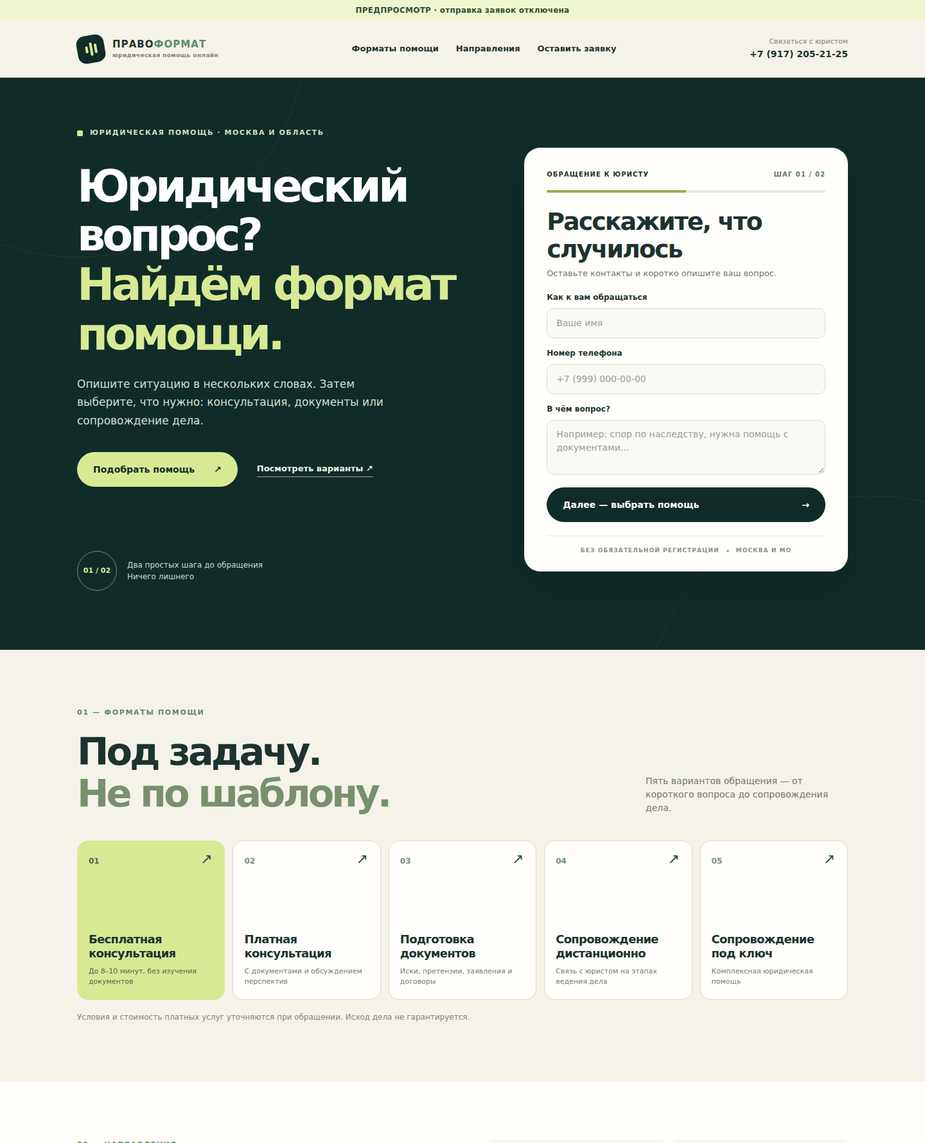
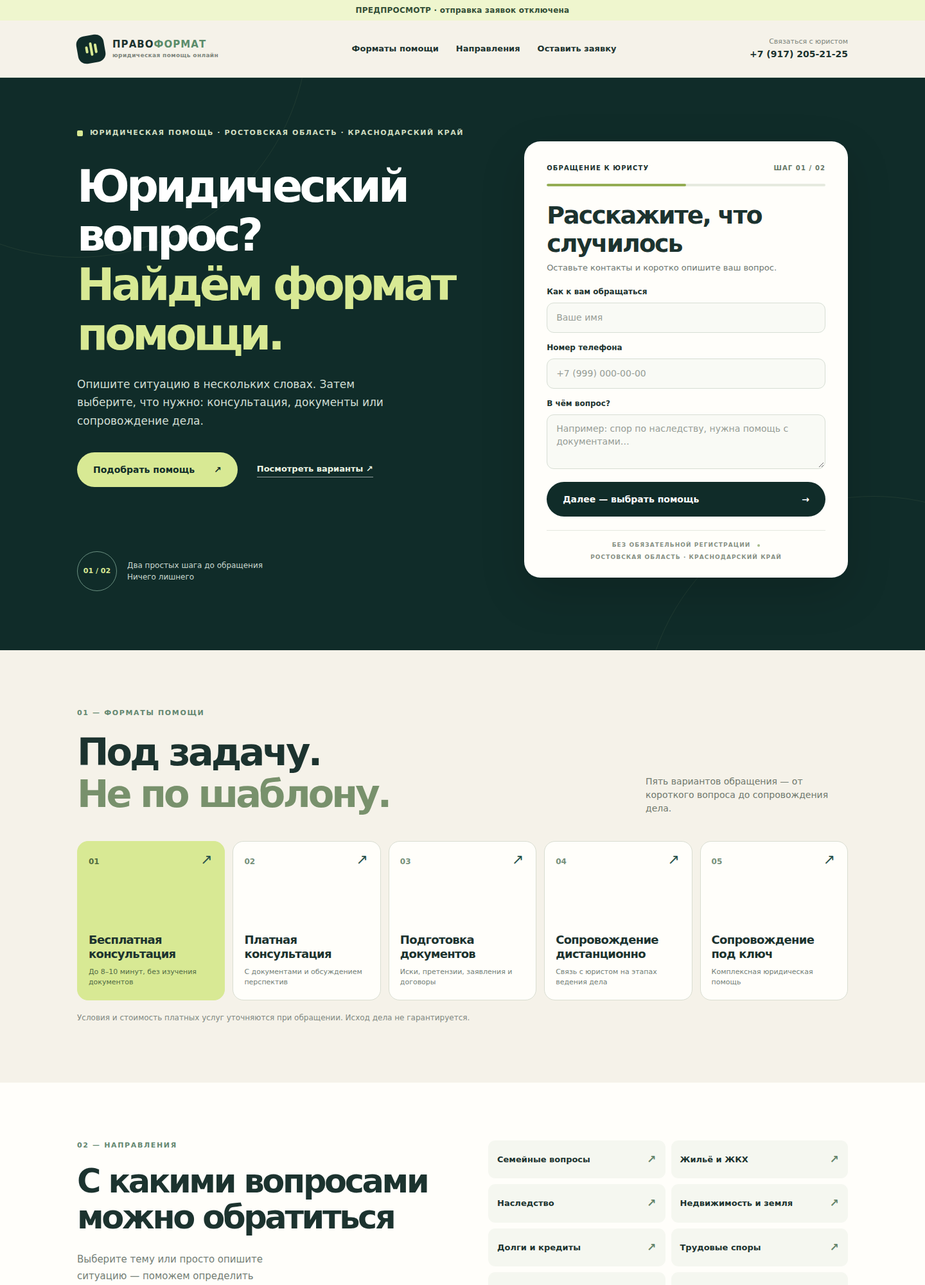
feat(oleg): add six law specialties and south regions to second landing

diff --git a/sites/oleg-services-landing/assets/site.css b/sites/oleg-services-landing/assets/site.css
@@ -1,1 +1,4 @@
 :root{--dark:#102c29;--deep:#0a211e;--mid:#28524b;--mint:#d8e994;--cream:#f5f2e9;--paper:#fffefa;--ink:#1c332f;--mute:#6d7770;--border:#d9ddd1;--salmon:#f2ad8a}*,*:before,*:after{box-sizing:border-box}html{scroll-behavior:smooth}body{margin:0;background:var(--cream);color:var(--ink);font:16px/1.5 system-ui,-apple-system,"Segoe UI",Arial,sans-serif}a{color:inherit}button,input,textarea,select{font:inherit}button{cursor:pointer}a,button,input,select,textarea{-webkit-tap-highlight-color:transparent}a:focus-visible,button:focus-visible,input:focus-visible,textarea:focus-visible{outline:3px solid #dfb873;outline-offset:3px}.shell{width:min(1200px,calc(100% - 56px));margin-inline:auto}.skip{position:absolute;z-index:50;top:-100px;left:12px;padding:12px;background:#fff;color:var(--ink)}.skip:focus{top:12px}[hidden]{display:none!important}.header{position:relative;z-index:4;background:var(--cream);border-bottom:1px solid #d6ddd0}.header-row{min-height:88px;display:flex;gap:27px;align-items:center;justify-content:space-between}.brand{display:flex;align-items:center;gap:12px;text-decoration:none;flex-shrink:0}.brand-symbol{width:43px;height:43px;background:var(--dark);border-radius:13px;display:flex;align-items:center;justify-content:center;gap:3px;transform:rotate(-10deg)}.brand-symbol span{display:block;width:4px;background:var(--mint);border-radius:3px}.brand-symbol span:nth-child(1){height:11px}.brand-symbol span:nth-child(2){height:21px}.brand-symbol span:nth-child(3){height:15px}.brand-text{display:block;font-size:15px;line-height:1;letter-spacing:.07em;font-weight:850}.brand-text>span{color:#5b8c6b}.brand-text small{display:block;color:#7e867d;font-size:9px;font-weight:600;letter-spacing:.04em;margin-top:5px}.header nav{display:flex;align-items:center;gap:27px}.header nav a{font-size:13px;text-decoration:none;font-weight:700;white-space:nowrap;transition:color .15s}.header nav a:hover{color:#56785c}.contact-phone{display:flex;flex-direction:column;align-items:flex-end;text-decoration:none;white-space:nowrap}.contact-phone small{font-size:11px;color:#7d857c}.contact-phone strong{font-size:14px;font-weight:780}.hero{position:relative;overflow:hidden;background:var(--dark);color:white}.hero-orbit{border:1px solid rgba(216,233,148,.08);border-radius:50%;width:720px;height:720px;position:absolute;pointer-events:none}.orbit-one{top:-440px;left:-240px}.orbit-two{right:-280px;bottom:-480px}.hero-layout{position:relative;z-index:1;display:grid;grid-template-columns:minmax(0,1.12fr) minmax(390px,.91fr);gap:76px;align-items:center;padding-block:78px 92px}.hero-copy{position:relative;align-self:stretch;display:flex;flex-direction:column;justify-content:center;min-width:0}.eyebrow{display:flex;align-items:center;gap:11px;color:#d1dec1;font-size:11px;letter-spacing:.14em;font-weight:750;margin:0 0 36px}.eyebrow-square{width:9px;height:9px;background:var(--mint);border-radius:2px}.hero h1{font-size:clamp(44px,4.85vw,71px);font-weight:750;line-height:1.1;letter-spacing:-.072em;margin:0 0 25px}.hero h1 em{color:var(--mint);font-style:normal}.hero-lead{font-size:17px;line-height:1.68;max-width:520px;color:#d1ded4;margin:0}.hero-actions{display:flex;align-items:center;flex-wrap:wrap;gap:30px;margin-top:35px}.action{display:inline-flex;align-items:center;justify-content:space-between;gap:30px;min-height:54px;padding:0 25px;border:0;text-decoration:none;font-weight:800;font-size:14px;border-radius:99px;transition:transform .15s,background .15s}.action:hover{transform:translateY(-2px)}.action-lime{background:var(--mint);color:var(--dark)}.action-lime:hover{background:#e4f0b8}.action-ink{background:var(--dark);color:white}.action-ink:hover{background:#224842}.hero-text-link{color:#ecf4e3;text-decoration:none;font-size:13px;font-weight:700;border-bottom:1px solid rgba(255,255,255,.55);padding-bottom:3px}.hero-footnote{display:flex;align-items:center;gap:16px;margin-top:100px;color:#c8d6cd;font-size:12px;line-height:1.5}.note-index{width:62px;height:62px;border:1px solid #6a9081;border-radius:50%;display:flex;align-items:center;justify-content:center;color:var(--mint);font-weight:800;font-size:11px;flex-shrink:0}.wizard-card{scroll-margin-top:22px;background:var(--paper);color:var(--ink);padding:34px 35px 25px;border-radius:25px;box-shadow:0 24px 70px rgba(0,0,0,.16);min-width:0}.wizard-topline{display:flex;justify-content:space-between;align-items:center;gap:10px}.tiny-tag,.wizard-counter{font-size:10px;font-weight:850;letter-spacing:.11em;white-space:nowrap}.wizard-counter{color:#667766}.progress{height:4px;border-radius:8px;background:#e6eadf;margin-top:17px;margin-bottom:24px;overflow:hidden}.progress-fill{display:block;background:#94ad54;width:50%;height:100%;border-radius:8px;transition:width .2s}.wizard-card h2{margin:0 0 6px;font-size:clamp(27px,2.7vw,38px);line-height:1.14;letter-spacing:-.052em;font-weight:780}.step-desc{color:var(--mute);font-size:13px;line-height:1.55;margin:0 0 18px}.form-step>label:not(.consent){display:block;font-size:12px;font-weight:750;margin:14px 0 8px}.form-step input:not([type=checkbox]):not([type=radio]),.form-step textarea,.form-step select{background:#f9faf5;border:1px solid #d7ded4;border-radius:11px;display:block;width:100%;padding:11px 14px;color:var(--ink);font-size:14px;min-height:47px}.form-step textarea{resize:vertical;min-height:81px;line-height:1.45}.form-step input::placeholder,.form-step textarea::placeholder{color:#969d96}.form-next{width:100%;margin-top:20px}.form-status{font-size:12px;color:#57685a;margin:10px 0 0;min-height:0}.form-status.error{color:#b23a39}.form-status.success{color:#2b7252}.hidden-field{position:absolute!important;left:-10000px!important;width:1px!important;height:1px!important;overflow:hidden!important}.wizard-bottom{display:flex;align-items:center;justify-content:center;gap:11px;margin-top:21px;padding-top:16px;border-top:1px solid #e4e7df;font-size:9px;letter-spacing:.12em;font-weight:700;color:#879185}.wizard-bottom .dot{width:4px;height:4px;background:#a7bb8b;border-radius:50%}.service-options{border:0;margin:0;padding:0;display:grid;gap:7px}.service-option{position:relative;display:flex;align-items:center;gap:12px;border:1px solid #d8ded4;background:#fbfcf8;border-radius:12px;padding:10px 11px;cursor:pointer;transition:background .15s,border-color .15s}.service-option:hover{background:#f2f6eb;border-color:#99af84}.service-option:has(input:checked){background:#edf6df;border-color:#86a760;box-shadow:0 0 0 1px #86a760}.service-option:has(input:focus-visible){outline:3px solid #dfb873;outline-offset:2px}.service-option input{position:absolute;opacity:0;width:1px;height:1px}.option-icon{display:flex;align-items:center;justify-content:center;width:35px;height:35px;background:#eff2e9;border-radius:10px;font-size:11px;color:#64805e;font-weight:850;flex:0 0 auto}.service-option strong{display:block;font-size:12px;line-height:1.32;font-weight:800}.service-option small{display:block;font-size:10px;color:#6a786d;line-height:1.35;margin-top:3px}.option-check{margin-left:auto;font-size:14px;font-weight:850;color:#4f8d53;opacity:0}.service-option:has(input:checked) .option-check{opacity:1}.muted-label{font-size:11px;font-weight:400;color:#7b877d}.consent{display:flex!important;gap:9px;align-items:flex-start;font-size:11px;line-height:1.43;font-weight:400!important;color:#657366;margin:18px 0 15px!important}.consent input{accent-color:#597f57;flex:0 0 auto;margin-top:2px}.consent a{text-underline-offset:2px}.wizard-actions{display:flex;gap:12px;justify-content:space-between;align-items:center}.wizard-actions .action{flex:1;min-width:0;gap:10px;justify-content:space-between;padding-inline:18px}.back-button{border:0;background:transparent;color:#576960;font-size:13px;font-weight:750;white-space:nowrap;padding:11px 3px}.visually-hidden{position:absolute;overflow:hidden;clip:rect(0,0,0,0);height:1px;width:1px;white-space:nowrap}.formats{background:var(--cream);padding-block:90px 92px}.section-header{display:flex;justify-content:space-between;gap:35px;align-items:end;margin-bottom:40px}.section-index{font-size:11px;letter-spacing:.15em;color:#638770;font-weight:800;margin:0 0 20px}.section-header h2,.direction-layout h2,.closing h2{font-size:clamp(35px,4.1vw,59px);line-height:1.1;letter-spacing:-.066em;margin:0;font-weight:780}.section-header h2 span{color:#78916c}.section-header>p{font-size:14px;color:#70796e;max-width:315px;margin:0}.format-grid{display:grid;grid-template-columns:repeat(5,minmax(0,1fr));gap:12px}.format-tile{min-height:248px;border:1px solid var(--border);border-radius:17px;background:#fffefa;display:flex;flex-direction:column;padding:22px 17px 18px;text-decoration:none;position:relative;transition:transform .16s,background .16s}.format-tile:hover{transform:translateY(-4px);background:#f9fbe9}.format-tile:first-child{background:var(--mint);border-color:var(--mint)}.format-number{font-size:12px;font-weight:800;color:#76917a}.format-tile:first-child .format-number{color:#526c40}.format-arrow{position:absolute;right:19px;top:17px;font-size:22px;line-height:1;color:var(--mid)}.format-name{font-size:18px;font-weight:790;letter-spacing:-.04em;line-height:1.2;margin-top:auto}.format-description{font-size:11px;color:#738078;line-height:1.48;margin-top:10px}.format-tile:first-child .format-description{color:#526b45}.services-note{font-size:12px;color:#818982;margin:18px 0 0}.directions{background:var(--paper);padding:90px 0}.direction-layout{display:grid;grid-template-columns:1fr 1fr;gap:80px;align-items:start}.direction-layout h2{font-size:clamp(33px,3.7vw,51px)}.direction-layout>div:first-child>p:last-child{max-width:360px;color:#747e76;font-size:15px;line-height:1.7;margin:25px 0}.direction-list{display:grid;grid-template-columns:repeat(2,minmax(0,1fr));gap:9px}.direction-list a{background:#f5f7f0;text-decoration:none;border-radius:11px;padding:16px 13px;display:flex;align-items:center;justify-content:space-between;gap:8px;font-size:13px;font-weight:750;border:1px solid transparent}.direction-list a:hover{border-color:#b2c5a5;background:#edf3e8}.direction-list a span{color:#64846a;font-size:17px}.closing{padding:55px 0;background:var(--mid);color:#fff}.closing-row{display:flex;align-items:center;justify-content:space-between;gap:24px}.closing .section-index{color:var(--mint);margin-bottom:8px}.closing h2{font-size:clamp(34px,3.9vw,51px)}.footer{background:var(--deep);color:#cedbd0}.footer-row{padding-block:29px;display:flex;align-items:center;gap:25px;justify-content:space-between;font-size:12px}.footer-row a{text-underline-offset:3px}.footer-row button{background:transparent;border:0;padding:5px 0;color:#cedbd0;font:inherit;text-decoration:underline;text-underline-offset:3px}.legal-details{display:flex;gap:12px 19px;padding-bottom:19px;flex-wrap:wrap;font-size:11px;color:#b8c9ba}.legal-details strong{color:white}.cookie-banner{position:fixed;z-index:30;bottom:15px;left:15px;right:15px;max-width:650px;margin:auto;background:#fff;border:1px solid #b9cdb7;border-radius:15px;box-shadow:0 10px 35px #172b2533;display:flex;gap:12px;align-items:center;padding:17px}.cookie-banner p{font-size:12px;margin:0;flex:1}.cookie-banner>div{display:flex;gap:7px}.cookie-banner button{border:1px solid #b4c2ad;background:#fff;border-radius:30px;padding:9px 12px;font-size:12px}.cookie-banner button:last-child{background:var(--dark);color:#fff}.preview-ribbon{position:relative;z-index:10;background:#eff6ce;color:#334e36;font-size:12px;font-weight:780;text-align:center;padding:7px 20px;letter-spacing:.02em}@media(max-width:1100px){.hero-layout{grid-template-columns:minmax(0,1fr) minmax(360px,.95fr);gap:38px}.hero h1{font-size:clamp(39px,4.8vw,58px)}.format-grid{grid-template-columns:repeat(3,minmax(0,1fr))}.format-tile{min-height:200px}.direction-layout{gap:40px}}@media(max-width:760px){.shell{width:calc(100% - 32px)}.header-row{min-height:74px;gap:13px}.brand-symbol{width:38px;height:38px}.brand-text{font-size:13px}.brand-text small{font-size:8px}.header nav{display:none}.contact-phone small{display:none}.contact-phone strong{font-size:12px}.hero-layout{grid-template-columns:1fr;gap:43px;padding-block:54px 72px}.hero h1{font-size:clamp(43px,8.5vw,65px)}.hero-lead{font-size:16px}.hero-footnote{margin-top:33px}.hero-actions{margin-top:29px;gap:20px}.wizard-card{padding:26px 21px 20px}.wizard-card h2{font-size:clamp(29px,6vw,37px)}.formats{padding-block:65px}.section-header{display:block}.section-header>p{margin-top:15px}.format-grid{grid-template-columns:repeat(2,minmax(0,1fr))}.format-tile{min-height:192px}.directions{padding-block:67px}.direction-layout{grid-template-columns:1fr;gap:30px}.closing-row{display:flex;flex-direction:column;align-items:flex-start;gap:25px}.footer-row{flex-wrap:wrap;gap:15px}}@media(max-width:450px){.hero h1{font-size:clamp(40px,10vw,48px)}.hero-actions{flex-direction:column;align-items:stretch}.hero-text-link{align-self:flex-start}.format-grid{gap:9px}.format-tile{padding:16px 13px;min-height:178px}.format-name{font-size:17px}.format-description{font-size:10px}.direction-list{gap:7px}.direction-list a{font-size:11px;padding:13px 10px}.wizard-actions .action{padding:12px 14px;font-size:12px;min-height:51px}.service-option{padding:9px}.service-option strong{font-size:11px}.service-option small{font-size:10px}.closing-row>.action{width:100%}.footer-row{flex-direction:column;align-items:flex-start}}@media(prefers-reduced-motion:reduce){html{scroll-behavior:auto}*,*:before,*:after{transition:none!important;animation:none!important}}
+
+/* Two explicit service regions can wrap without overlapping on mobile. */
+.wizard-bottom{flex-wrap:wrap;row-gap:5px}.eyebrow{line-height:1.5}.direction-list a{overflow-wrap:anywhere}

diff --git a/sites/oleg-services-landing/index.html b/sites/oleg-services-landing/index.html
@@ -5,11 +5,11 @@
 <meta name="viewport" content="width=device-width,initial-scale=1">
 <meta name="robots" content="noindex,nofollow">
 <meta name="theme-color" content="#102c29">
-<meta name="description" content="Юридическая помощь онлайн в Москве и Московской области. Выберите формат: бесплатная или платная консультация, подготовка документов, дистанционное сопровождение или дело под ключ.">
+<meta name="description" content="Юридическая помощь онлайн: Ростовская область и Краснодарский край. Выберите формат: бесплатная или платная консультация, подготовка документов, дистанционное сопровождение или дело под ключ.">
 <meta property="og:type" content="website">
 <meta property="og:title" content="Юридическая помощь — выберите подходящий формат">
 <meta property="og:description" content="Опишите ситуацию, затем выберите, какая юридическая помощь вам нужна.">
-<title>Юридическая помощь онлайн — выберите формат консультации | ПравоФормат</title>
+<title>Юридическая помощь онлайн — Ростовская область и Краснодарский край | ПравоФормат</title>
 <link rel="stylesheet" href="assets/site.css">
 <script src="assets/site.js" defer></script>
 </head>
@@ -30,7 +30,7 @@
  <div class="hero-orbit orbit-one" aria-hidden="true"></div><div class="hero-orbit orbit-two" aria-hidden="true"></div>
  <div class="shell hero-layout">
   <div class="hero-copy">
-    <p class="eyebrow"><span class="eyebrow-square"></span> ЮРИДИЧЕСКАЯ ПОМОЩЬ · МОСКВА И ОБЛАСТЬ</p>
+    <p class="eyebrow"><span class="eyebrow-square"></span> ЮРИДИЧЕСКАЯ ПОМОЩЬ · РОСТОВСКАЯ ОБЛАСТЬ · КРАСНОДАРСКИЙ КРАЙ</p>
     <h1>Юридический вопрос?<br><em>Найдём формат помощи.</em></h1>
     <p class="hero-lead">Опишите ситуацию в нескольких словах. Затем выберите, что нужно: консультация, документы или сопровождение дела.</p>
     <div class="hero-actions"><a href="#consultation" class="action action-lime">Подобрать помощь <span aria-hidden="true">↗</span></a><a href="#formats" class="hero-text-link">Посмотреть варианты <span aria-hidden="true">↗</span></a></div>
@@ -66,6 +66,12 @@
      <select id="topic" name="topic">
       <option value="Другая юридическая проблема">Помогите определить</option>
       <option>Семейное право</option><option>Жилищные вопросы</option><option>Наследство</option><option>Недвижимость и земля</option><option>Долги и кредиты</option><option>Трудовой спор</option><option>Защита прав потребителей</option><option>Судебный спор</option>
+      <option>Арбитражные споры по договору подряда</option>
+      <option>Уголовные дела (адвокат)</option>
+      <option>Военное право</option>
+      <option>Медицинское право</option>
+      <option>Пенсионное право (перерасчёт пенсии)</option>
+      <option>Интеллектуальное право</option>
      </select>
      <label class="consent"><input id="lead-consent" type="checkbox" required><span>Согласен(на) на <a href="privacy.html" target="_blank" rel="noopener">обработку персональных данных</a> для ответа на обращение.</span></label>
      <div class="wizard-actions"><button id="step-back" type="button" class="back-button"><span aria-hidden="true">←</span> Назад</button><button id="lead-submit" type="submit" class="action action-ink">Отправить заявку <span aria-hidden="true">↗</span></button></div>
@@ -73,7 +79,7 @@
     <div class="hidden-field" aria-hidden="true"><label for="company-site">Не заполнять</label><input id="company-site" type="text" name="website" tabindex="-1" autocomplete="off"></div>
     <p class="form-status" id="lead-status" role="status" aria-live="polite"></p>
    </form>
-   <div class="wizard-bottom"><span>БЕЗ ОБЯЗАТЕЛЬНОЙ РЕГИСТРАЦИИ</span><span class="dot"></span><span>МОСКВА И МО</span></div>
+   <div class="wizard-bottom"><span>БЕЗ ОБЯЗАТЕЛЬНОЙ РЕГИСТРАЦИИ</span><span class="dot"></span><span>РОСТОВСКАЯ ОБЛАСТЬ · КРАСНОДАРСКИЙ КРАЙ</span></div>
   </div>
  </div>
 </section>
@@ -102,12 +108,18 @@
    <a href="#consultation" data-topic="Трудовой спор">Трудовые споры <span>↗</span></a>
    <a href="#consultation" data-topic="Защита прав потребителей">Права потребителей <span>↗</span></a>
    <a href="#consultation" data-topic="Судебный спор">Судебные споры <span>↗</span></a>
+   <a href="#consultation" data-topic="Арбитражные споры по договору подряда">Арбитражные споры по договору подряда <span>↗</span></a>
+   <a href="#consultation" data-topic="Уголовные дела (адвокат)">Уголовные дела (адвокат) <span>↗</span></a>
+   <a href="#consultation" data-topic="Военное право">Военное право <span>↗</span></a>
+   <a href="#consultation" data-topic="Медицинское право">Медицинское право <span>↗</span></a>
+   <a href="#consultation" data-topic="Пенсионное право (перерасчёт пенсии)">Пенсионное право (перерасчёт пенсии) <span>↗</span></a>
+   <a href="#consultation" data-topic="Интеллектуальное право">Интеллектуальное право <span>↗</span></a>
   </div>
  </div>
 </section>
 <section class="closing"><div class="shell closing-row"><div><p class="section-index">НАЧАТЬ ПРОСТО</p><h2>Расскажите, что произошло.</h2></div><a class="action action-lime" href="#consultation">Начать обращение <span aria-hidden="true">↗</span></a></div></section>
 </main>
-<footer class="footer"><div class="shell footer-row"><span>© <span id="year">2026</span> ПравоФормат · Москва и область</span><a href="privacy.html">Обработка персональных данных</a><button id="cookie-settings" type="button">Настройки аналитики</button></div></footer>
+<footer class="footer"><div class="shell footer-row"><span>© <span id="year">2026</span> ПравоФормат · Ростовская область и Краснодарский край</span><a href="privacy.html">Обработка персональных данных</a><button id="cookie-settings" type="button">Настройки аналитики</button></div></footer>
 <div id="cookie-banner" class="cookie-banner" role="dialog" aria-label="Настройки аналитики" hidden><p>Разрешить статистику посещений? Отказ не влияет на заявку.</p><div><button id="cookie-deny" type="button">Отказать</button><button id="cookie-allow" type="button">Разрешить</button></div></div>
 </body>
 </html>

diff --git a/sites/oleg-services-landing/tests/test_static.py b/sites/oleg-services-landing/tests/test_static.py
@@ -21,7 +21,7 @@ assert 'data-metrika-id=' not in html and not (ROOT/'sitemap.xml').exists()
 assert 'id="step-one"' in html and 'id="step-two"' in html
 assert 'id="step-two" class="form-step" aria-labelledby="step-two-title" hidden' in html
 assert html.count('type="radio" name="service"')==5
-assert html.count('data-service=')==5 and html.count('data-topic=')==8
+assert html.count('data-service=')==5 and html.count('data-topic=')==14
 assert 'id="lead-consent"' in html and 'id="lead-submit"' in html
 assert 'Бесплатная консультация' in html and 'Дело под ключ' in html
 assert 'До 8–10 минут, без анализа документов' in html
@@ -43,4 +43,12 @@ css=(ROOT/'assets/site.css').read_text()
 assert '@media(max-width:760px)' in css and 'prefers-reduced-motion:reduce' in css
 assert '.service-option:has(input:checked)' in css
 subprocess.run(['node','--check',str(ROOT/'assets/site.js')],check=True)
-print('PASS: site2 static, two-step, 5 services, 8 directions, SEO noindex, attribution and separate CRM')
+print('PASS: site2 static, two-step, 5 services, 14 directions, SEO noindex, attribution and separate CRM')
+
+# New legal specialties requested by the client, with back-end allowlist.
+new_topics=('Арбитражные споры по договору подряда','Уголовные дела (адвокат)','Военное право','Медицинское право','Пенсионное право (перерасчёт пенсии)','Интеллектуальное право')
+for topic in new_topics:
+ assert f'data-topic="{topic}"' in html and f'<option>{topic}</option>' in html
+ assert topic in lead
+assert 'Ростовская область и Краснодарский край' in html
+assert 'МОСКВА И ОБЛАСТЬ' not in html

diff --git a/sites/oleg-services-landing/api/lead.php b/sites/oleg-services-landing/api/lead.php
@@ -23,7 +23,7 @@ session_write_close();
 if (!empty($body['website'])) api_json(400, ['status'=>'invalid_submission']);
 $requestId = is_string($body['request_id'] ?? null) ? $body['request_id'] : '';
 if (!preg_match('/^[a-f0-9-]{36}$/i', $requestId)) api_json(422,['status'=>'invalid_request']);
-$topics = ['Семейное право','Жилищные вопросы','Наследство','Недвижимость и земля','Долги и кредиты','Трудовой спор','Защита прав потребителей','Судебный спор','Другая юридическая проблема'];
+$topics = ['Семейное право','Жилищные вопросы','Наследство','Недвижимость и земля','Долги и кредиты','Трудовой спор','Защита прав потребителей','Судебный спор','Арбитражные споры по договору подряда','Уголовные дела (адвокат)','Военное право','Медицинское право','Пенсионное право (перерасчёт пенсии)','Интеллектуальное право','Другая юридическая проблема'];
 $topic = api_field($body['topic'] ?? '', 100);
 $service = api_field($body['service'] ?? '', 20);
 $services = ['free','paid','documents','remote','turnkey'];

diff --git a/sites/oleg-services-landing/tests/test_build_release.py b/sites/oleg-services-landing/tests/test_build_release.py
@@ -11,7 +11,7 @@ with TemporaryDirectory() as tmp:
     advertiser = base / "advertiser.json"
     advertiser.write_text(json.dumps({
         "review_status": "approved", "legal_name": "ООО Юридический Пример",
-        "physical_address": "Москва, Примерная улица, дом 17",
+        "physical_address": "Ростов-на-Дону, Примерная улица, дом 17",
         "inn": "1234567890", "ogrn_or_ogrnip": "1234567890123"
     }, ensure_ascii=False))
     try:
@@ -39,6 +39,8 @@ with TemporaryDirectory() as tmp:
     assert 'data-metrika-id="123456789"' in html
     assert "ООО Юридический Пример" in html and "ИНН: 1234567890" in html
     assert '"@type": "LegalService"' in html
+    assert '"name": "Ростовская область"' in html
+    assert '"name": "Краснодарский край"' in html
     assert "https://example.org/sitemap.xml" in (release/"robots.txt").read_text()
     assert (release/"api/lead.php").is_file()
     try:

diff --git a/sites/oleg-services-landing/seo/build_release.py b/sites/oleg-services-landing/seo/build_release.py
@@ -56,8 +56,8 @@ def build(domain: str, counter: int, privacy: Path, advertiser: Path, dest: Path
         "@context": "https://schema.org", "@type": "LegalService",
         "name": data['legal_name'].strip(), "url": url,
         "telephone": "+79172052125", "address": data['physical_address'].strip(),
-        "areaServed": [{"@type": "AdministrativeArea", "name": "Москва"},
-                       {"@type": "AdministrativeArea", "name": "Московская область"}]
+        "areaServed": [{"@type": "AdministrativeArea", "name": "Ростовская область"},
+                       {"@type": "AdministrativeArea", "name": "Краснодарский край"}]
     }
     html = html.replace('</head>',
         '<script type="application/ld+json">' + json.dumps(schema, ensure_ascii=False).replace('<', '\\u003c')

diff --git a/sites/oleg-services-landing/README.md b/sites/oleg-services-landing/README.md
@@ -26,3 +26,9 @@
 Оба отправляют отдельный источник в общую CRM, но счётчики и UTM различаются. Разделение трафика по двум сайтам само по себе **не гарантирует** экономию: гипотеза проверяется в Яндекс Директе после отдельного разрешённого запуска. Рекламный бюджет не назначен.
 
 **Важное условие оффера:** длительность и доступность бесплатной консультации, а также фактические условия платных услуг должны быть подтверждены юридическим исполнителем до публикации.
+
+## 20.11.2026 — география
+По уточнению владельца в тестовом лендинге, SEO-метаданных, будущей структурированной разметке и черновых кампаниях вместо Москвы и Московской области указаны Ростовская область и Краснодарский край. Домен, реквизиты оператора и рекламные расходы не менялись; продакшн не опубликован.
+
+## 20.11.2026 — расширенные направления
+В блоке «Направления» добавлено 6 пунктов (всего 14): арбитражные споры по договору подряда, уголовные дела (адвокат), военное, медицинское, пенсионное (перерасчёт пенсии) и интеллектуальное право. Каждое направление доступно в выпадающем списке двухшаговой формы и разрешено серверной проверкой для записи в CRM. Предпросмотр сохраняет отключённую отправку. Наличие адвоката для уголовных дел и других профильных специалистов требует фактического подтверждения перед запуском.
